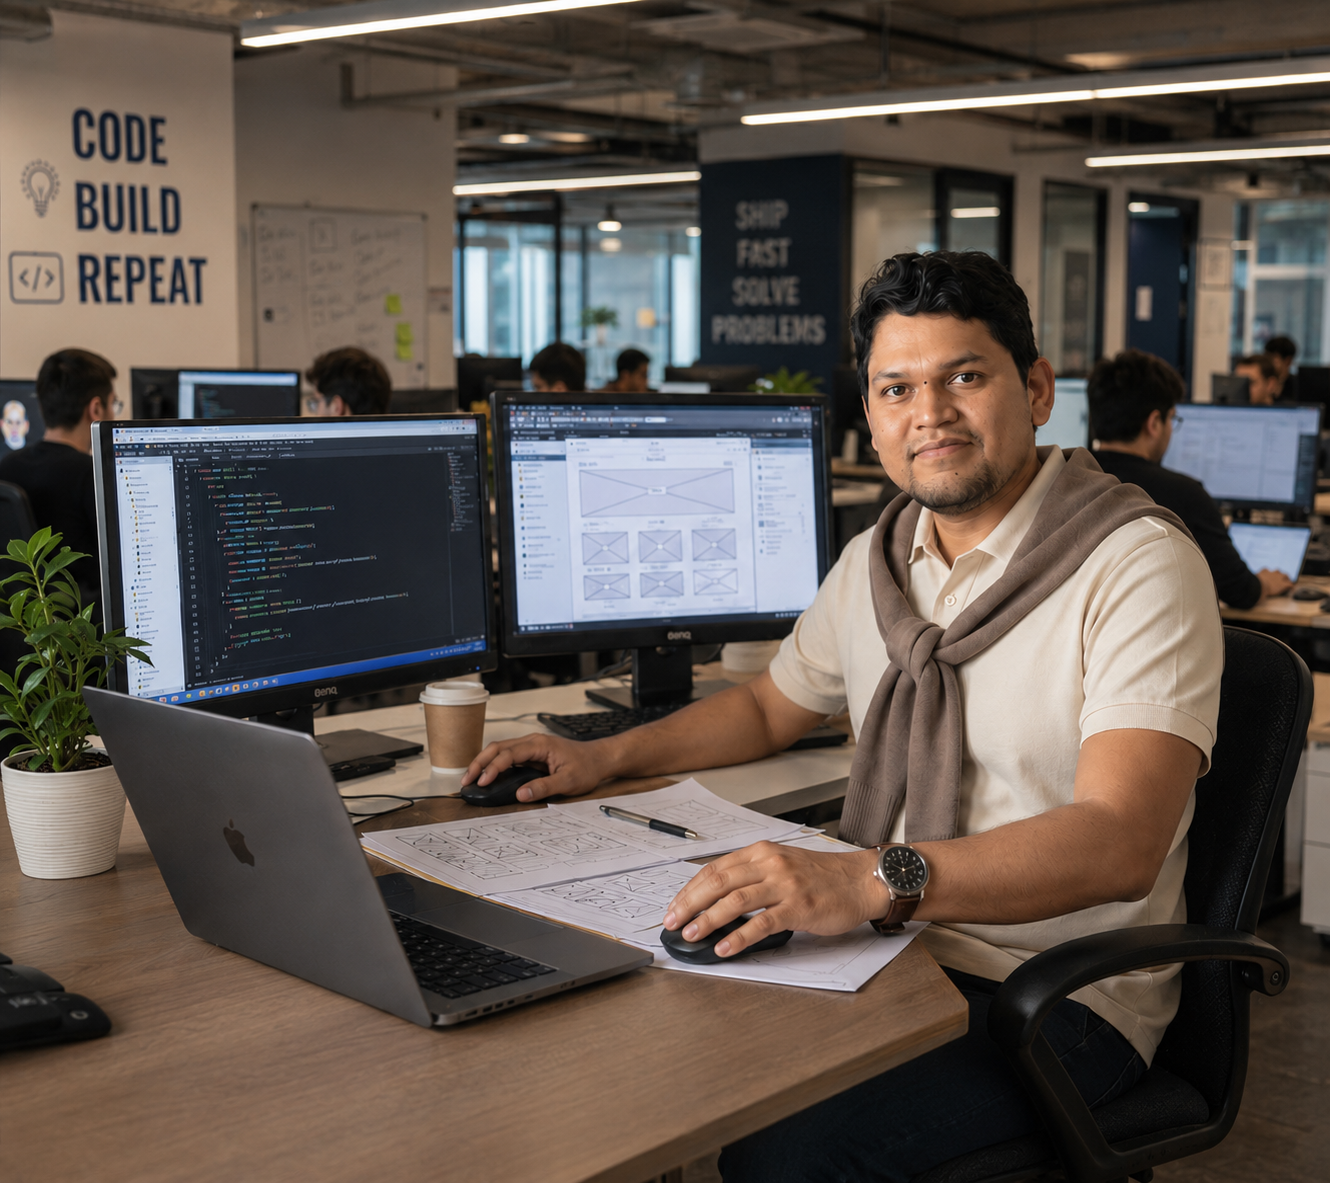
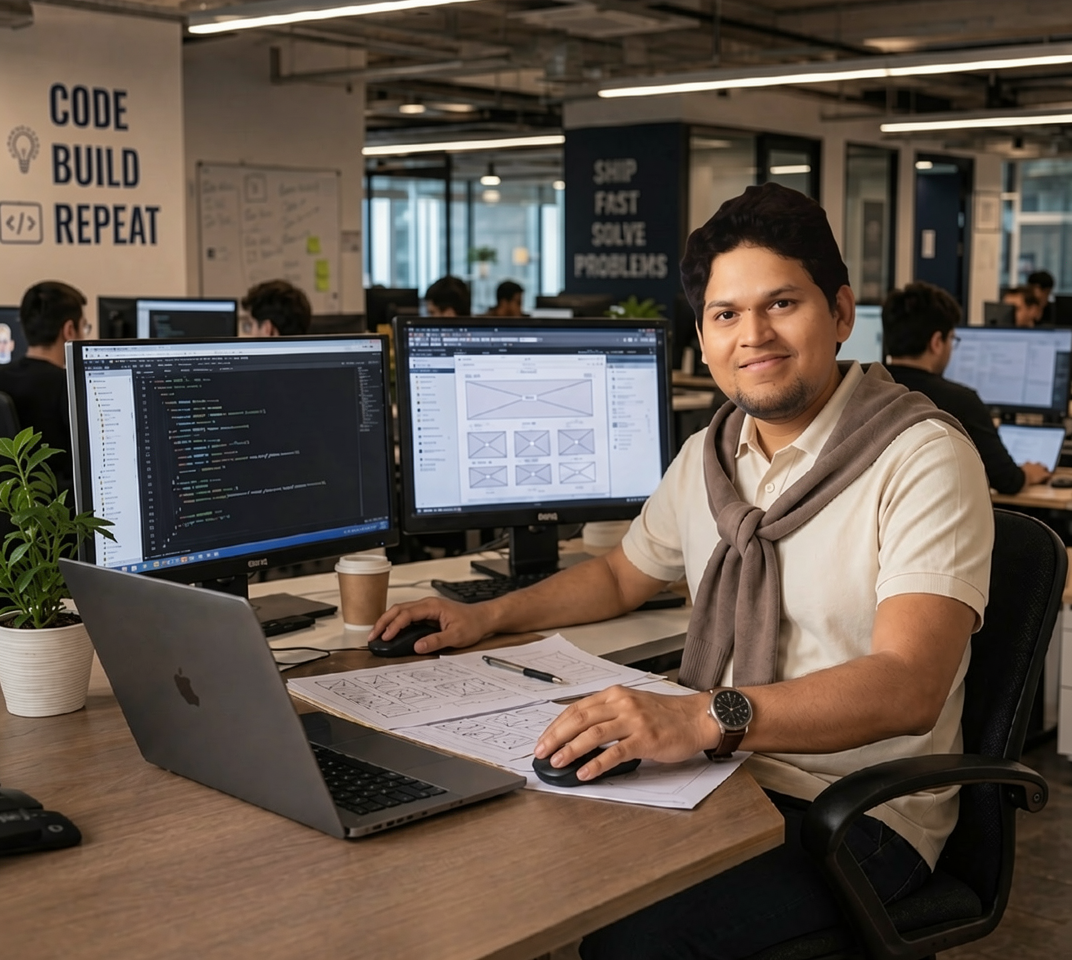
Update videos

diff --git a/src/components/stitch/StitchChapterSection.tsx b/src/components/stitch/StitchChapterSection.tsx
@@ -4,7 +4,6 @@ import { useRef, useState, useEffect } from 'react'
 import {
   motion, useInView, useScroll, useTransform,
   useMotionValue, useSpring, AnimatePresence,
-  type MotionValue,
 } from 'framer-motion'
 import type { Chapter } from '@/data/chapters'
 
@@ -62,14 +61,13 @@ function ChapterPlaceholder({ chapter }: { chapter: Chapter }) {
   )
 }
 
-function ChapterVideo({
-  chapter,
-  scrollYProgress,
-}: {
-  chapter: Chapter
-  scrollYProgress: MotionValue<number>
-}) {
+function ChapterVideo({ chapter }: { chapter: Chapter }) {
   const videoRef = useRef<HTMLVideoElement>(null)
+  const containerRef = useRef<HTMLDivElement>(null)
+
+  // Track this video's own viewport entry/exit — not the whole (taller) chapter section —
+  // so playback progress 0 lines up with the moment the video actually becomes visible.
+  const { scrollYProgress } = useScroll({ target: containerRef, offset: ['start end', 'end start'] })
 
   // 5-second video: entering → 0–2s, centered → 2–4s, leaving → 4–5s
   const videoTime = useTransform(scrollYProgress, [0, 0.4, 0.8, 1], [0, 2, 4, 5])
@@ -102,6 +100,7 @@ function ChapterVideo({
 
   return (
     <div
+      ref={containerRef}
       className="relative rounded-2xl overflow-hidden"
       style={{
         border: `1px solid ${chapter.accentColor}18`,
@@ -392,7 +391,7 @@ export function StitchChapterSection({ chapter, index }: Props) {
               className="relative"
             >
               {chapter.video ? (
-                <ChapterVideo chapter={chapter} scrollYProgress={scrollYProgress} />
+                <ChapterVideo chapter={chapter} />
               ) : chapter.transparent && chapter.image ? (
                 <PopupImagePanel chapter={chapter} />
               ) : chapter.image ? (

diff --git a/src/data/chapters.ts b/src/data/chapters.ts
@@ -74,6 +74,7 @@ export const chapters: Chapter[] = [
     skills: ['Full-Stack Development', 'Healthcare Applications', 'Database Solutions', 'Google APIs', 'Production Support'],
     tier: 'SE',
     image: '/Assets/Images/Leraning User Experience.png',
+    video: '/Assets/Videos/Leraning User Experience.mp4',
     transparent: true,
     accentColor: '#d0bcff',
     contribution: {
@@ -104,6 +105,7 @@ export const chapters: Chapter[] = [
     skills: ['.NET Framework', 'Angular', 'JavaScript', 'SQL Server', 'Healthcare Systems', 'Systems Analysis'],
     tier: 'SDE',
     image: '/Assets/Images/Learning Enterprise Systems.png',
+    video: '/Assets/Videos/Learning Enterprise Systems.mp4',
     transparent: true,
     accentColor: '#4edea3',
     contribution: {
@@ -135,6 +137,7 @@ export const chapters: Chapter[] = [
     skills: ['ASP.NET MVC', 'Angular', 'Web APIs', 'SQL Server', 'AWS', 'Systems Analysis', 'Solution Design', 'Microservices', '.NET Core', 'Docker', 'GitHub Actions', 'REST APIs', 'PostgreSQL', 'ETL', 'SOLID Principles'],
     tier: 'ARCH',
     image: '/Assets/Images/Thinking in Systems.png',
+    video: '/Assets/Videos/Thinking in Systems.mp4',
     transparent: true,
     accentColor: '#adc6ff',
     contribution: {